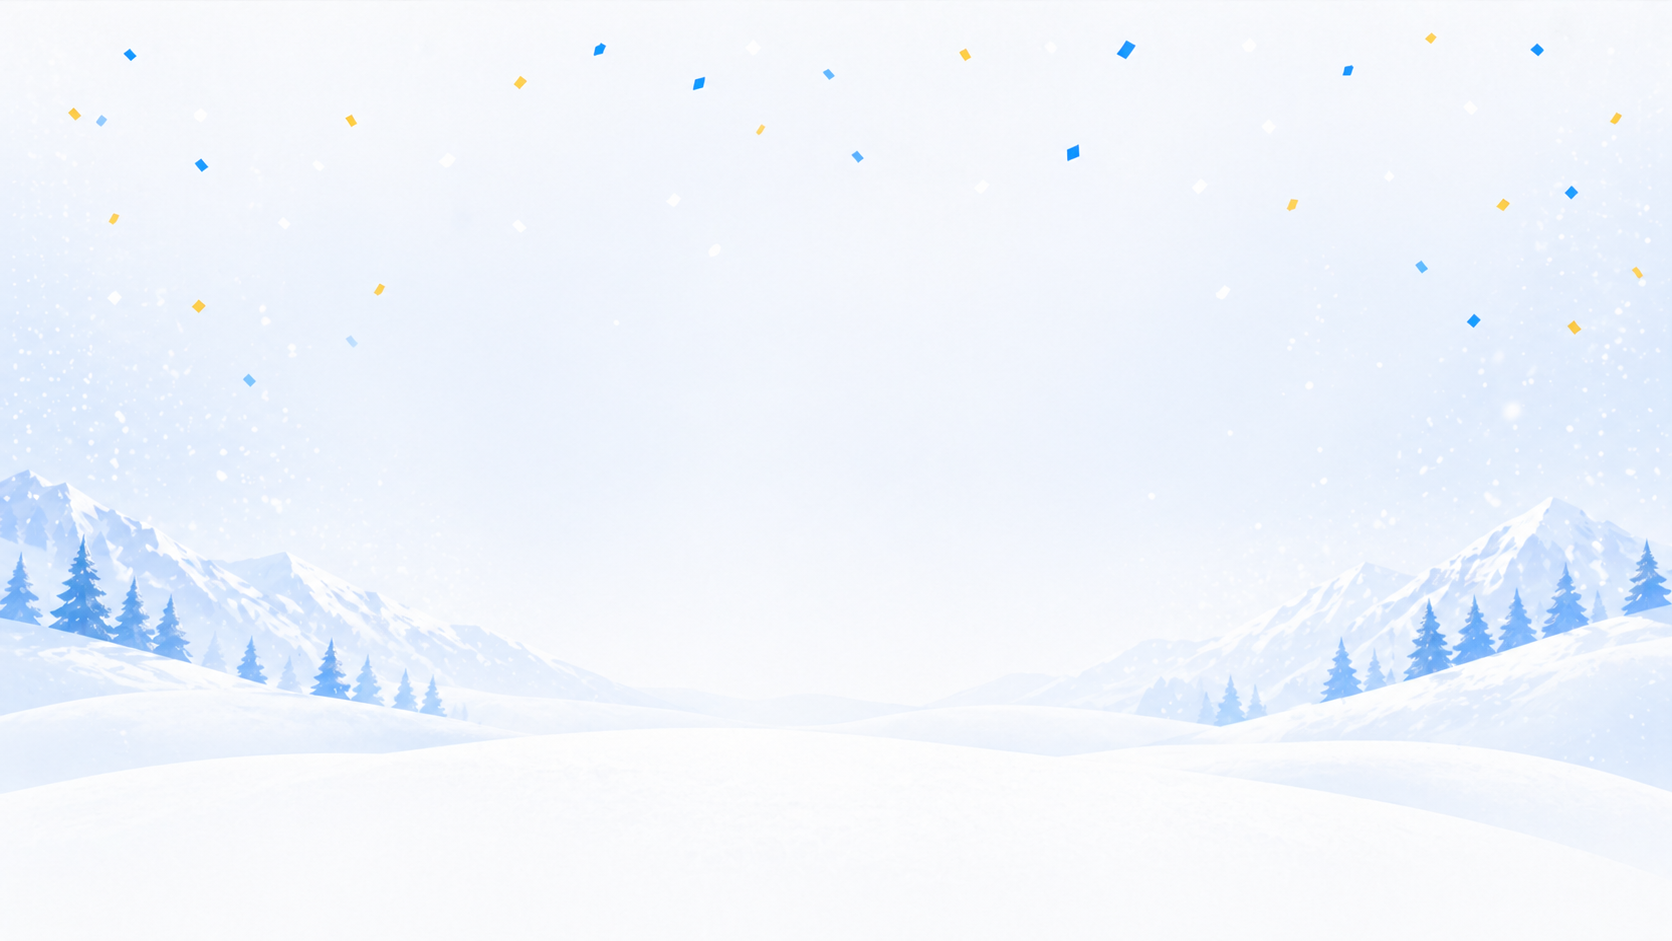
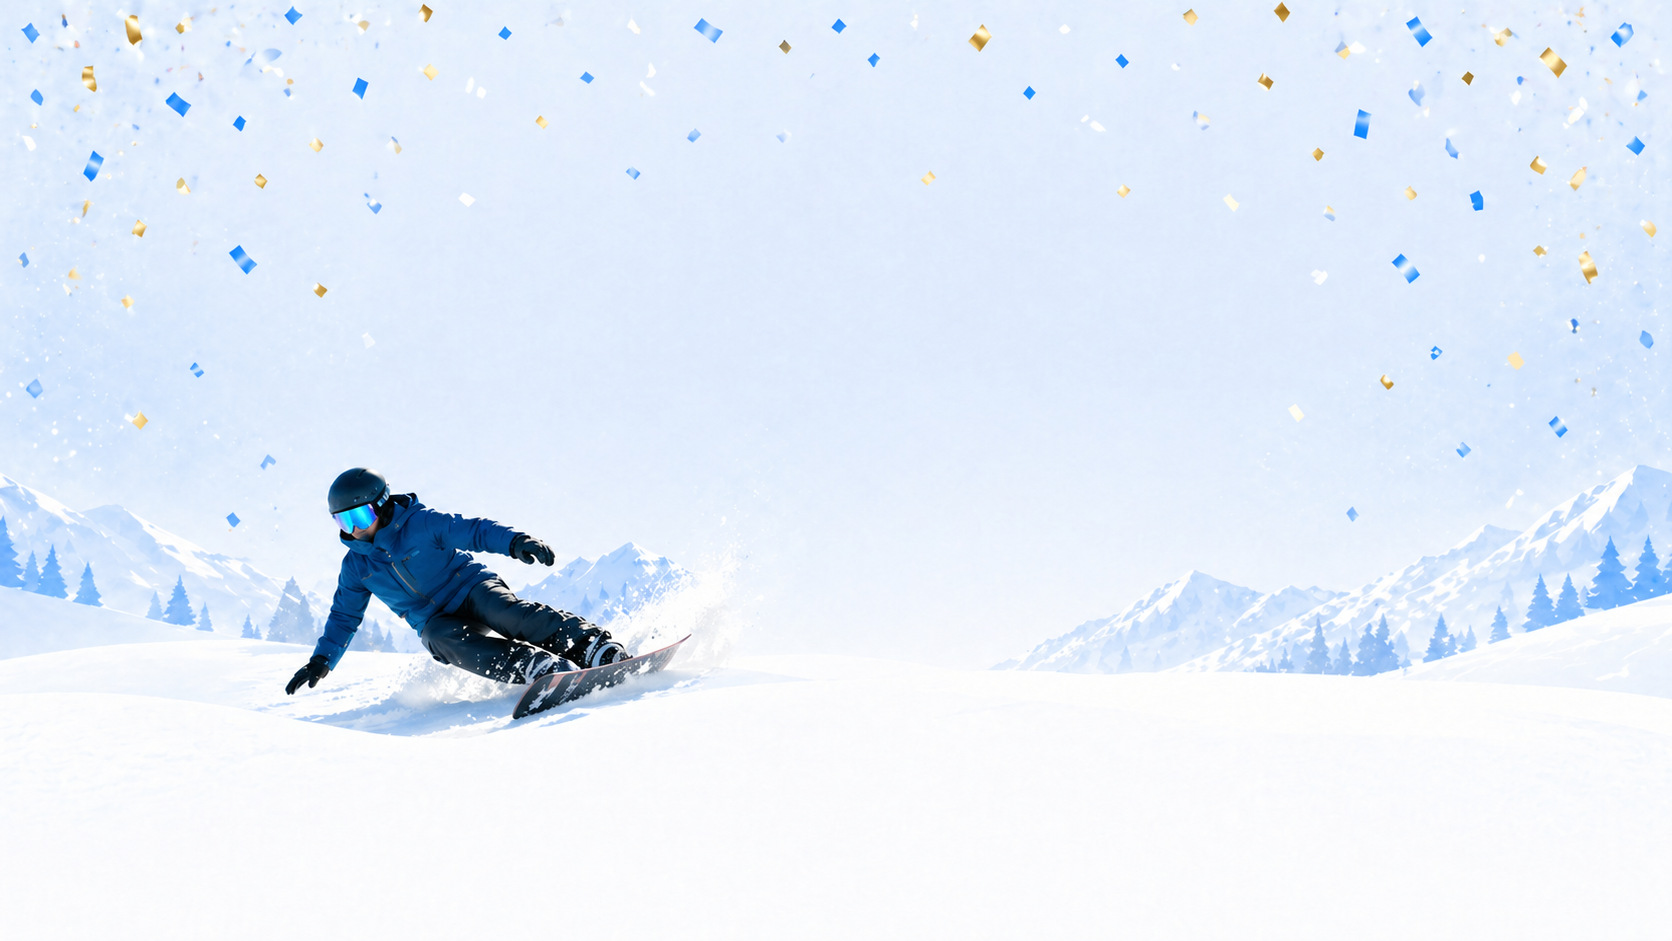
complete basic result page

diff --git a/templates/results.html b/templates/results.html
@@ -1,27 +1,61 @@
 {% extends "layout.html" %}
 {% block content %}
-<link rel="stylesheet" href="{{ url_for('static', filename='results.css') }}">
+<link rel="stylesheet" href="{{ url_for('static', filename='result.css') }}">
+<div class="result-bg">
+    <!--
+    <div class="results-page-body">
+        <div class="result-card">
+            <span class="result-subtitle">Quiz Complete</span>
+            <h1 class="result-title">Quiz Completed!</h1>
+            <p class="result-desc">Nice work! You've taken another step toward becoming a more confident, skilled rider.
+            </p>
 
-<div class="results-page-body">
-    <div class="result-card">
-        <span class="result-subtitle">Quiz Complete</span>
-        <h1 class="result-title">Quiz Completed!</h1>
-        <p class="result-desc">Nice work! You've taken another step toward becoming a more confident, skilled rider.</p>
+            <div class="score-circle-wrapper">
+                <span class="score-label-small">Your Final Score</span>
+                <span class="score-value-large">{{ score }}/5</span>
+            </div>
 
-        <div class="score-circle-wrapper">
-            <span class="score-label-small">Your Final Score</span>
-            <span class="score-value-large">{{ score }}/5</span>
+            {% if score >= 4 %}
+            <h3 class="result-feedback-title text-success">Good Job!</h3>
+            {% else %}
+            <h3 class="result-feedback-title text-warning">Keep Practicing!</h3>
+            {% endif %}
+
+            <div class="d-flex justify-content-center gap-3">
+                <a href="/" class="btn btn-home mr-3">Back to Home</a>
+                <a href="/quiz/1" class="btn btn-retake">Retake Quiz</a>
+            </div>
+        </div>
+    </div>-->
+
+    <div class="container">
+        <div class="result-container my-5">
+            <div class="row align-items-start mt-5">
+                <div class="col-md-6">
+                    <h1 class="result-title">Quiz Completed!</h1>
+                    <p class="result-desc">
+                        Nice work! You've taken another step toward becoming a more confident, skilled rider.
+                    </p>
+                    
+                </div>
+
+                <div class="col-md-6">
+                    <div class="card score-card">
+                        <div class="score-circle-wrapper">
+                            <span class="score-label-small">Your Final Score</span>
+                            <span class="score-value-large">{{ score }}/5</span>
+                        </div>
+                    </div>
+                </div>
+
+            </div>
         </div>
 
-        {% if score >= 4 %}
-            <h3 class="result-feedback-title text-success">Good Job!</h3>
-        {% else %}
-            <h3 class="result-feedback-title text-warning">Keep Practicing!</h3>
-        {% endif %}
-
-        <div class="d-flex justify-content-center gap-3">
-            <a href="/" class="btn btn-home mr-3">Back to Home</a>
-            <a href="/quiz/1" class="btn btn-retake">Retake Quiz</a>
+        <div class="result-button-container my-5">
+            <div class="d-flex justify-content-center gap-3">
+                <a href="/" class="btn btn-home mr-3">Back to Home</a>
+                <a href="/quiz/1" class="btn btn-retake">Retake Quiz</a>
+            </div>
         </div>
     </div>
 </div>

diff --git a/static/result.css b/static/result.css
@@ -119,3 +119,23 @@
     color: #ffffff;
     text-decoration: none;
 }
+
+.result-bg {
+    background-image: url("/static/data/quiz_complete_background.png");
+    background-size: cover;
+    background-position: center;
+    background-repeat: no-repeat;
+    min-height: 100vh;
+    padding-top: 40px;
+    padding-bottom: 60px;
+}
+
+.score-card {
+    min-height: 420px;
+    display: flex;
+    align-items: center;
+    justify-content: center;
+    border-radius: 20px;
+    border: 1px solid #e0e8f5;
+    box-shadow: 0 8px 30px rgba(15, 23, 42, 0.08);
+}
